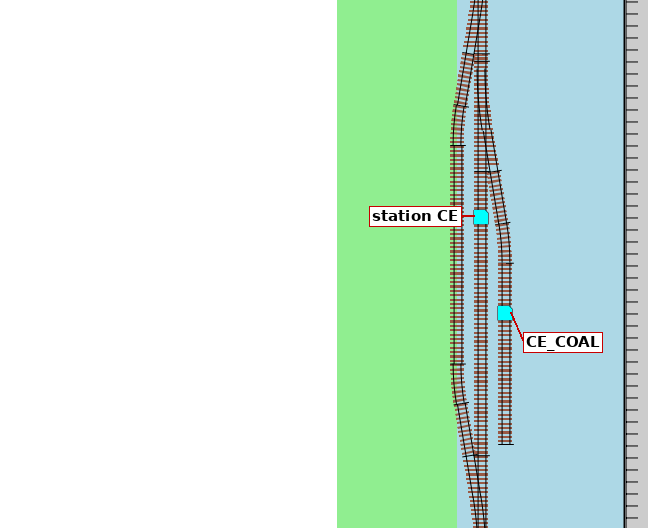
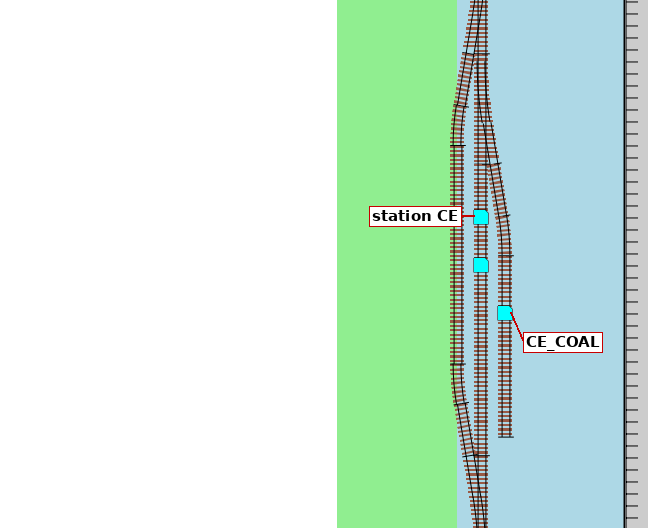
mcp: generate_track_plan butts back-to-back turnouts
A spur's turnout was placed at least 0.5 in (on a 0.25 in grid) from the
turnout before it, leaving filler straights of 0.62 in on the main that
XTrkCAD's Short Tracks report lists (Hillside: at Alder and Cedar). Spur
positions that butt against a turnout already on the main are now tried
first, with no gap required, so they win ties. Hillside: 58 pieces, was
61; XTrkCAD's Short Tracks, Kinked Joints and Track Clearance reports find
nothing on it. Test: no straight shorter than 1 in.

The plan moved slightly: the tutorial's quoted MPs, branch MPs, segment
lengths, Birch's main (4 cars, was 3) and two track ids in quoted findings
follow, the screenshots are retaken, and Birch Lumber's note moves onto
its spur (x 64). New test: every tutorial note lies on its own track,
within 0.5 in, in every chapter. Part 1 says the generated plan passes
the track reports.

Changed region(s): [[0.7099, 0.0909, 0.8025, 0.8485]]

diff --git a/mcp/tests/test_tutorial.py b/mcp/tests/test_tutorial.py
@@ -100,9 +100,9 @@ def _station(export, ident):
 def test_quoted_station_mileposts(export):
     """Chapter 5's table."""
     assert [(s["id"], s["mp"]) for s in export["stations"]] == [
-        ("HY", 0.0), ("AL", 3.375), ("BI", 13.643), ("CE", 21.521)]
+        ("HY", 0.0), ("AL", 3.395), ("BI", 13.643), ("CE", 21.521)]
     assert (_station(export, "AL")["mp_entry"], _station(export, "AL")["mp_exit"]) == (
-        0.963, 5.786)
+        0.984, 5.807)
     assert _station(export, "AL")["siding_cars"] == 5
     assert _station(export, "CE")["terminus"] is True
 
@@ -137,7 +137,7 @@ def test_quoted_segments(export):
     """Chapter 12's table."""
     assert [(s["from_station"], s["to_station"], s["length_ft"])
             for s in export["segments"]] == [
-        ("HY", "AL", 293.932), ("AL", "BI", 894.367), ("BI", "CE", 686.211)]
+        ("HY", "AL", 295.746), ("AL", "BI", 892.553), ("BI", "CE", 686.211)]
 
 
 def test_quoted_export_refusal(base, tmp_path):
@@ -168,7 +168,7 @@ def test_quoted_timetable(base, tmp_path):
         "| Station | MP | 1 out | 1 back |",
         "|---|---|---|---|",
         "| HY Hillside | 0.0 | 07:00 | 10:15 |",
-        "| AL Alder | 3.375 | 07:12 – 07:42 | 10:03 |",
+        "| AL Alder | 3.395 | 07:12 – 07:42 | 10:03 |",
         "| BI Birch | 13.643 | 08:12 – 08:37 | 09:33 |",
         "| CE Cedar | 21.521 | 09:00 | 09:10 |"]
     assert r["table"] in TUTORIAL.read_text(encoding="utf-8")
@@ -255,3 +255,18 @@ def test_appendix_your_own_layout(tmp_path):
     added = add_track_layers(str(dvrr), levels=1)["added"]
     assert added == ["L1-Main", "L1-Passing", "L1-Storage", "L1-Staging",
                      "L1-Connecting", "L1-Service"]
+
+
+@pytest.mark.parametrize("chapter", CHAPTERS)
+def test_every_note_is_on_its_track(base, tmp_path, chapter):
+    """The places the tutorial gives are on the track, not beside it: the
+    check tolerates a little, but the tutorial shouldn't teach that. A track
+    plan change that moves track away from a note fails here."""
+    from xtrkcad_mcp.conventions import read_convention_notes, snap_note
+    layout = _state(base, tmp_path, chapter)
+    notes, _ = read_convention_notes(layout)
+    for note in notes:
+        if note.kind in ("railroad", "subdivision"):
+            continue                              # position not used
+        track, dist = snap_note(layout, note)
+        assert track is not None and dist <= 0.5, (note.kind, note.id, dist)

diff --git a/mcp/src/xtrkcad_mcp/track_plan.py b/mcp/src/xtrkcad_mcp/track_plan.py
@@ -610,19 +610,28 @@ def _pack_station(st: StationSpec, fp: float, L: float,
     for sp in st.spurs:
         span = xc + sp.length_in
         best = None
-        u = lo - span - 2 * end_gap
+        # Where the spur's turnout butts against a turnout already on the
+        # main, first: a tie goes to them, so no short filler straight is
+        # left between two turnouts (XTrkCAD's Short Tracks report lists
+        # those). Then every 0.25 in.
+        start = sp.points_toward == "start"
+        butts = [(e if start else e - span + L) for _a, e in main] + \
+                [(a - L if start else a - span) for a, _e in main]
+        grid, u = [], lo - span - 2 * end_gap
         while u <= hi + 2 * end_gap:
+            grid.append(u)
+            u += 0.25
+        for u in butts + grid:
             side_iv = (u, u + span)
-            main_iv = (u, u + L) if sp.points_toward == "start" else (u + span - L, u + span)
+            main_iv = (u, u + L) if start else (u + span - L, u + span)
             if st.terminus and side_iv[1] > hi:
-                break
+                continue
             key = sp.side
             taken_side = sides.get(key, []) + (sides["siding"] if key == st.siding_side else [])
-            if free(main_iv, main) and free(side_iv, taken_side, end_gap):
+            if free(main_iv, main, 0.0) and free(side_iv, taken_side, end_gap):
                 ext = max(hi, side_iv[1]) - min(lo, side_iv[0])
                 if best is None or ext < best[0] - 1e-9:
                     best = (ext, u, main_iv, side_iv)
-            u += 0.25
         if best is None:
             raise PlanError(f"spur {sp.id}: no room beside station {st.id}")
         _ext, u, main_iv, side_iv = best

diff --git a/mcp/tests/test_track_plan.py b/mcp/tests/test_track_plan.py
@@ -315,7 +315,10 @@ def test_generate_track_plan_writes_connected_track(tmp_path):
     assert result["backup_path"]                  # the benchwork-only file is kept
     parsed = parse_file(layout)
     tracks = [t for t in parsed.tracks if t.kind in ("STRAIGHT", "CURVE", "TURNOUT")]
-    assert len(tracks) == result["pieces"] == 61
+    assert len(tracks) == result["pieces"] == 58
+    # Turnouts that stand back to back are butted: no filler straight shorter
+    # than XTrkCAD's Short Tracks report flags (1 in) is left between them.
+    assert not [t.id for t in tracks if t.kind == "STRAIGHT" and t.length_model_inches() < 1.0]
     open_ends = [ep for t in tracks for ep in t.endpoints if ep.connected_to is None]
     assert len(open_ends) == result["open_ends"] == 8
     by_id = {t.id: t for t in parsed.tracks}

diff --git a/mcp/docs/operating-conventions-tutorial.md b/mcp/docs/operating-conventions-tutorial.md
@@ -111,7 +111,7 @@ note on an `L1-Main` layer, on the main. A note that lands beside its track is r
 
 ```
 warning NOTE_FAR_FROM_TRACK
-  station BI: 5.0 in from the nearest track (44)
+  station BI: 5.0 in from the nearest track (65)
   hint: It is on track 43 of layer L1-Passing: move the note to that layer.
 ```
 
@@ -283,8 +283,8 @@ export_layout_data("hillside_division.xtc")
 | Station | MP | Limits (MP) | Siding | Main between the switches |
 |---|---|---|---|---|
 | HY Hillside | 0.0 | terminus | | |
-| AL Alder | 3.375 | 0.963 – 5.786 | 5 cars | 4 cars |
-| BI Birch | 13.643 | 11.232 – 16.054 | 5 cars | 3 cars |
+| AL Alder | 3.395 | 0.984 – 5.807 | 5 cars | 4 cars |
+| BI Birch | 13.643 | 11.232 – 16.054 | 5 cars | 4 cars |
 | CE Cedar | 21.521 | terminus | 4 cars | 3 cars |
 
 The track plan asked for 5-car sidings at Alder and Birch, and the export gives 5: both count
@@ -298,7 +298,7 @@ needs to clear it, doesn't count.
 **Yard limits** are a stretch of main where trains may move without a clearance, at restricted
 speed, so a switcher can work the station. A layout needs no yard-limit notes: every station's
 zone defaults to its own limits, from entry switch to exit switch [4.4]. At Alder that's MP
-0.963 – 5.786, the siding's switches.
+0.984 – 5.807, the siding's switches.
 
 A **YL board** is a `yard_limit` note with the station's id, on the main where the board stands.
 It moves that end of the zone out to the board. Cedar is a terminus, so its default zone is only
@@ -352,7 +352,7 @@ switches it, how many cars it takes and what it ships and receives [4.5]:
 ```
 
 Place the feed mill's on `L1-Storage` on the spur west of Alder's main (x 10, y 115), and the
-lumber yard's on the spur north of Birch's main (x 52, y 182).
+lumber yard's on the spur north of Birch's main (x 64, y 182).
 
 - `station`: where the switcher comes from. Leave it out for an industry out on the line with no
   station of its own.
@@ -381,9 +381,9 @@ The export lists each with its spots and what its track holds:
 
 | Industry | Station | Branch MP | Car spots | Track holds |
 |---|---|---|---|---|
-| AL_FEED Alder Feed Mill | AL | 1.781 | 2 | 3 cars |
-| AL_TEAM Alder team track | AL | 6.776 | 2 | 2 cars |
-| BI_LUMBER Birch Lumber | BI | 14.398 | 3 | 4 cars |
+| AL_FEED Alder Feed Mill | AL | 1.75 | 2 | 3 cars |
+| AL_TEAM Alder team track | AL | 6.755 | 2 | 2 cars |
+| BI_LUMBER Birch Lumber | BI | 15.288 | 3 | 4 cars |
 
 The branch MP is where the spur leaves the main. The track is measured between clearance points
 like a siding [2], so the feed mill's spur holds 3 cars although only 2 are spotted.
@@ -527,7 +527,7 @@ Hillside has none, so these two are examples: a mine reached by a switchback, an
 
   ```
   error SWITCHBACK_TAIL_ON_MAIN
-    Switchback CE_SWB: its tail track (72) is on a Mainline layer
+    Switchback CE_SWB: its tail track (69) is on a Mainline layer
     hint: The tail track is never main track; put it on its own layer.
   ```
 
@@ -596,8 +596,8 @@ segments, in prototype feet along the main:
 
 | From | To | Length |
 |---|---|---|
-| HY | AL | 293.932 ft |
-| AL | BI | 894.367 ft |
+| HY | AL | 295.746 ft |
+| AL | BI | 892.553 ft |
 | BI | CE | 686.211 ft |
 
 While the check finds an **error**, nothing is written; the result says why:
@@ -661,7 +661,7 @@ make_timetable("hillside_division.xtc", "hillside_operations.yaml")
 | Station | MP | 1 out | 1 back |
 |---|---|---|---|
 | HY Hillside | 0.0 | 07:00 | 10:15 |
-| AL Alder | 3.375 | 07:12 – 07:42 | 10:03 |
+| AL Alder | 3.395 | 07:12 – 07:42 | 10:03 |
 | BI Birch | 13.643 | 08:12 – 08:37 | 09:33 |
 | CE Cedar | 21.521 | 09:00 | 09:10 |
 
@@ -670,8 +670,8 @@ an arrival at the end of a run, or a pass. The Local leaves Hillside at 07:00, w
 Birch, turns at Cedar at 09:10 and is back at 10:15: 3 hours 15 minutes on the clock, 65 real
 minutes.
 
-Each figure comes from the layout. Hillside to Alder is 3.375 MP, most of it inside Alder's
-yard limits, which start at MP 0.963 (its entry switch): 0.963 MP at 30 mph and 2.412 at 15 make
+Each figure comes from the layout. Hillside to Alder is 3.395 MP, most of it inside Alder's
+yard limits, which start at MP 0.984 (its entry switch): 0.984 MP at 30 mph and 2.411 at 15 make
 12 minutes. Move a station note or a YL board, add a car spot, and the next timetable follows.
 
 **Clock and layout speed.** The tool also reports the speed a model must really run at to keep

diff --git a/mcp/docs/layout-config-guide.md b/mcp/docs/layout-config-guide.md
@@ -717,10 +717,10 @@ to choose), **Kinked Joints** (tracks that meet at an angle), **Short Tracks**
 (filler pieces too short to be useful) and **Track Clearance** (tracks drawn
 closer than they can run). The MCP has a simpler
 `write_gaps_report` and `find_unconnected_endpoints`; the app's reports are the
-fuller check, and they show each place on the layout. On the generated
-Hillside plan, Short Tracks lists two 0.62 in straights between turnouts that
-stand back to back (the main at Alder and at Cedar): short, but deliberate, so
-leave them. A plan you drew or changed by hand is worth checking every time.
+fuller check, and they show each place on the layout. A plan from
+`generate_track_plan` passes them (turnouts that stand back to back are butted,
+with no filler between them); one you drew or changed by hand is worth checking
+every time.
 
 ---
 
